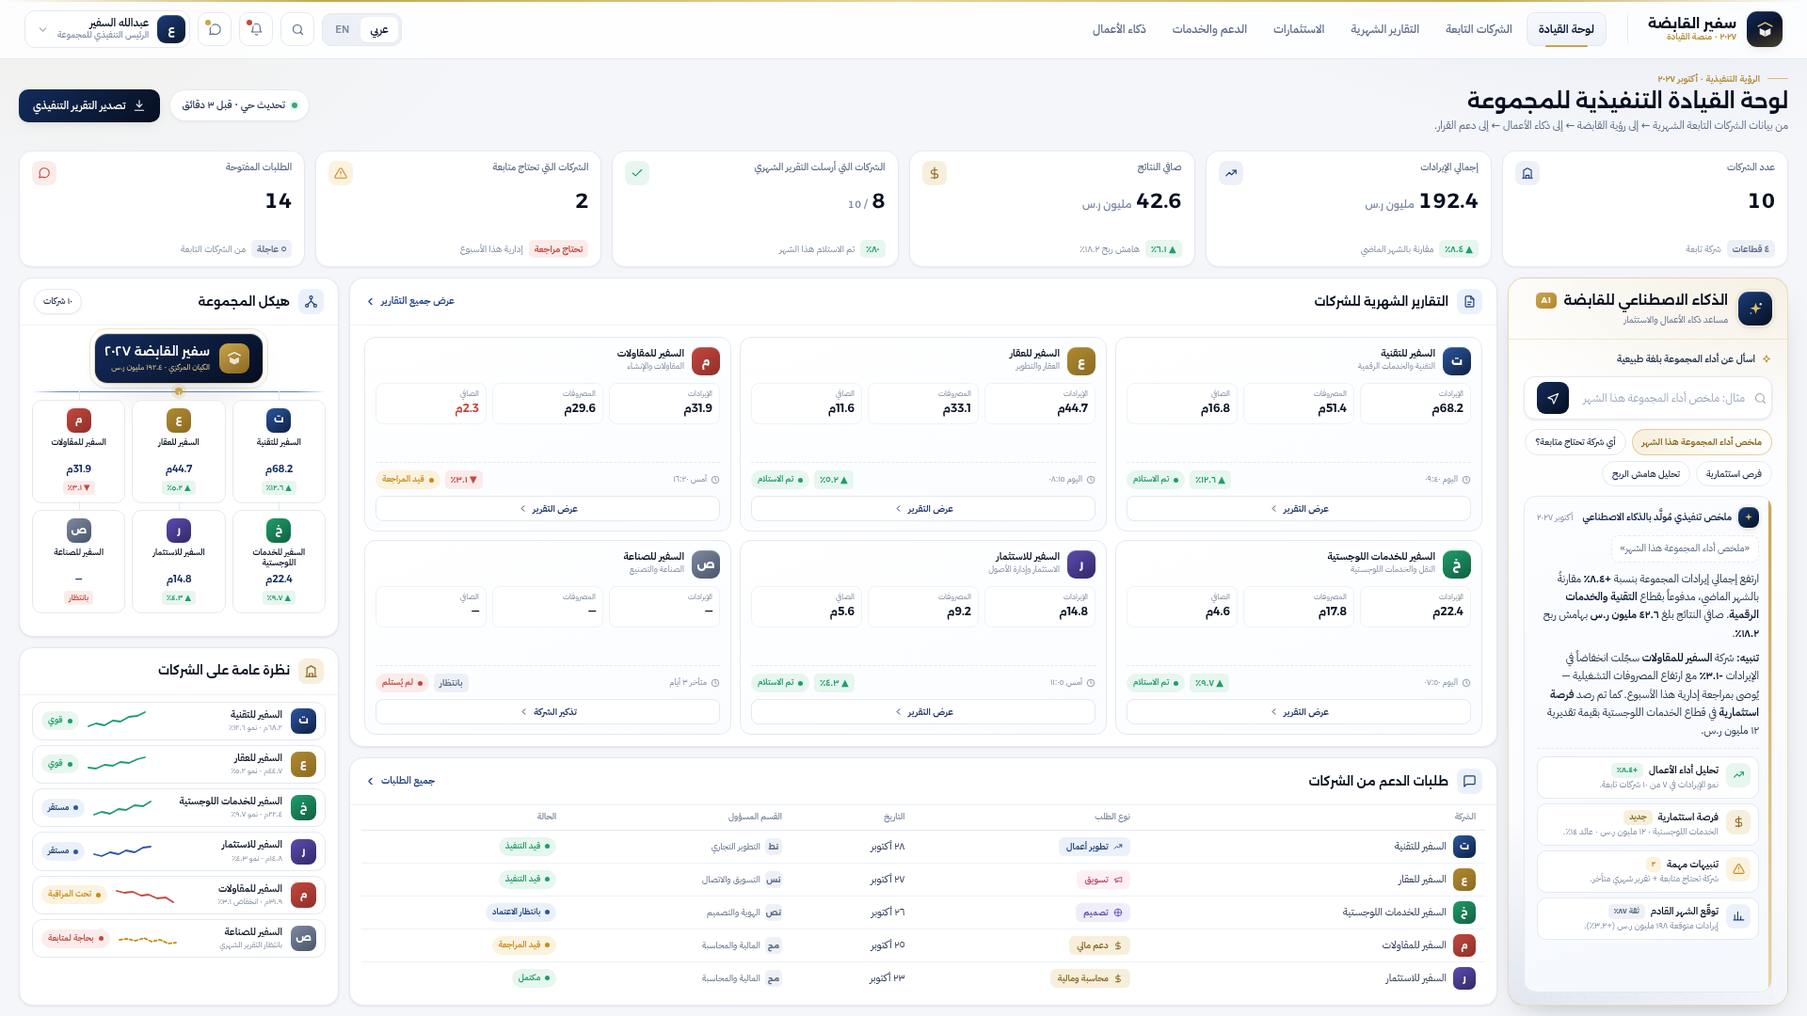
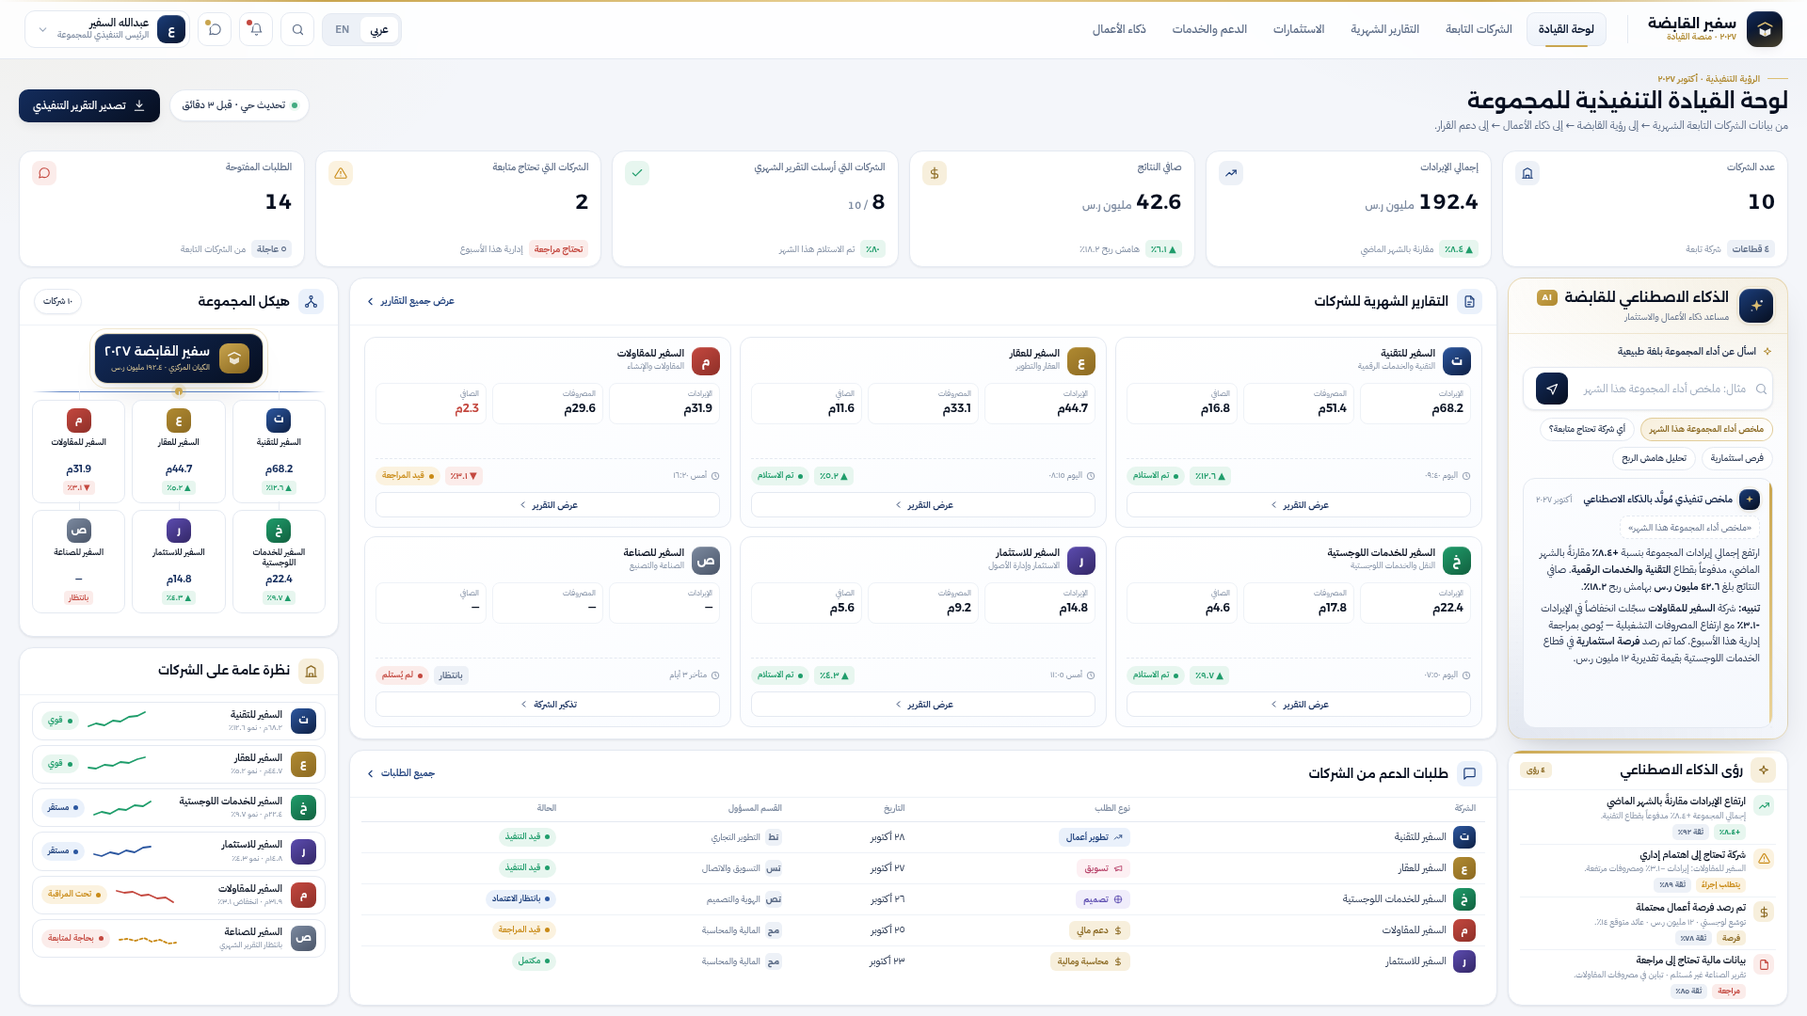
Give AI Insights its own labeled dashboard section
The four AI-generated observations (revenue up vs. last month, one company
needing attention, a detected business opportunity, financial data needing
review) previously sat unlabeled inside the Holding AI panel. They now form
a dedicated 'رؤى الذكاء الاصطناعي / AI Insights' section in the left column
beneath Holding AI, each with an icon, confidence level and status tag.

- Rebalance the board grid so Holding AI and AI Insights share the left column
- Trim the AI answer to summary text only, removing the duplicated rows
- Drop the now-unused .mini* styles and keep .ins-tag for insight metadata
- Refresh both presentation screenshots

Verified: no clipped text or out-of-bounds elements in Arabic or English at
1920x1080, and responsive scaling intact at 1440/1280/1024.

diff --git a/styles.css b/styles.css
@@ -173,12 +173,12 @@ html.lang-en .profile{padding:4px 12px 4px 4px;}
   padding:12px 20px 11px;
   display:grid;
   grid-template-columns:298px minmax(0,1fr) 340px;
-  grid-template-rows:74px 124px minmax(0,1fr) 264px;
+  grid-template-rows:74px 124px minmax(0,1fr) 272px;
   grid-template-areas:
     "head  head    head"
     "kpis  kpis    kpis"
     "ai    reports rel"
-    "ai    support rel";
+    "aii   support rel";
   gap:11px;
 }
 
@@ -243,7 +243,7 @@ h1.page-title{font-family:var(--f-display);font-size:22px;font-weight:600;color:
 .kpi.green .kpi-ic{background:var(--green-soft);color:var(--green);}
 .kpi.amber .kpi-ic{background:var(--amber-soft);color:var(--amber);}
 .kpi.red .kpi-ic{background:var(--red-soft);color:var(--red);}
-.kpi-val{font-family:var(--f-display);font-size:22px;font-weight:600;color:var(--navy-900);letter-spacing:-.025em;line-height:1.05;display:flex;align-items:baseline;gap:4px;}
+.kpi-val{font-family:var(--f-display);font-size:22px;font-weight:600;color:var(--navy-900);letter-spacing:-.025em;line-height:1.15;display:flex;align-items:baseline;gap:4px;overflow:visible;}
 .kpi-val .unit{font-size:10.5px;font-weight:500;color:var(--ink-400);letter-spacing:0;}
 .kpi-foot{display:flex;align-items:center;gap:6px;margin-top:auto;padding-top:5px;font-size:10px;color:var(--ink-400);white-space:nowrap;overflow:hidden;}
 .delta{display:inline-flex;align-items:center;gap:3px;font-weight:600;font-size:10px;padding:2px 6px;border-radius:5px;white-space:nowrap;}
@@ -270,7 +270,7 @@ h1.page-title{font-family:var(--f-display);font-size:22px;font-weight:600;color:
 }
 .ai-top{
   flex:0 0 auto;display:flex;align-items:center;gap:11px;
-  padding:13px 16px;border-bottom:1px solid rgba(201,165,78,.22);position:relative;
+  padding:10px 15px;border-bottom:1px solid rgba(201,165,78,.22);position:relative;
 }
 .ai-orb{
   width:36px;height:36px;border-radius:11px;flex:0 0 auto;position:relative;
@@ -282,7 +282,7 @@ h1.page-title{font-family:var(--f-display);font-size:22px;font-weight:600;color:
 .ai-id h2{font-family:var(--f-display);font-size:14px;font-weight:600;color:var(--navy-900);margin:0;display:flex;align-items:center;gap:7px;}
 .ai-id p{margin:1px 0 0;font-size:10px;color:var(--ink-500);}
 .badge-ai{font-size:8.5px;font-weight:700;letter-spacing:.1em;padding:2px 6px;border-radius:5px;background:linear-gradient(140deg,var(--gold-500),var(--gold-600));color:#fff;}
-.ai-body{position:relative;flex:1 1 auto;min-height:0;display:flex;flex-direction:column;padding:13px 16px;gap:10px;overflow:hidden;}
+.ai-body{position:relative;flex:1 1 auto;min-height:0;display:flex;flex-direction:column;padding:11px 15px;gap:8px;overflow:hidden;}
 .ask-label{font-size:10.5px;font-weight:600;color:var(--ink-700);display:flex;align-items:center;gap:6px;}
 .ask-box{
   display:flex;align-items:center;gap:9px;padding:4px 4px 4px 13px;border-radius:12px;
@@ -295,7 +295,7 @@ html.lang-en .ask-box{padding:4px 13px 4px 4px;}
 .ask-send{width:34px;height:34px;border-radius:9px;border:none;cursor:pointer;flex:0 0 auto;background:linear-gradient(140deg,var(--navy-600),var(--navy-900));color:#fff;display:grid;place-items:center;transition:.24s;}
 .ask-send:hover{transform:scale(1.05);}
 .suggest{display:flex;flex-wrap:wrap;gap:6px;}
-.sugg{font-size:10px;font-weight:500;color:var(--ink-700);padding:5px 10px;border-radius:999px;background:#fff;border:1px solid var(--line);cursor:pointer;transition:.22s;}
+.sugg{font-size:9.5px;font-weight:500;color:var(--ink-700);padding:4px 9px;border-radius:999px;background:#fff;border:1px solid var(--line);cursor:pointer;transition:.22s;}
 .sugg:hover{border-color:var(--gold-400);color:var(--gold-700);background:var(--gold-100);}
 .sugg.gold{border-color:rgba(201,165,78,.5);background:linear-gradient(140deg,var(--gold-100),#fff);color:var(--gold-700);font-weight:600;}
 
@@ -304,11 +304,11 @@ html.lang-en .ask-box{padding:4px 13px 4px 4px;}
   padding:11px 13px;position:relative;overflow:hidden;flex:1 1 auto;min-height:0;
 }
 .answer::before{content:"";position:absolute;inset-inline-start:0;top:0;bottom:0;width:3px;background:linear-gradient(180deg,var(--gold-500),var(--gold-300));}
-.answer-head{display:flex;align-items:center;gap:7px;margin-bottom:8px;}
+.answer-head{display:flex;align-items:center;gap:7px;margin-bottom:6px;}
 .answer-head .who{font-size:10.5px;font-weight:600;color:var(--navy-700);}
 .answer-head .time{font-size:9.5px;color:var(--ink-400);margin-inline-start:auto;}
-.answer-q{font-size:10.5px;color:var(--ink-500);padding:5px 9px;border-radius:8px;background:#fff;border:1px dashed var(--line);margin-bottom:8px;display:inline-block;}
-.answer p{margin:0 0 7px;font-size:11.5px;color:var(--ink-700);line-height:1.68;}
+.answer-q{font-size:10px;color:var(--ink-500);padding:4px 8px;border-radius:8px;background:#fff;border:1px dashed var(--line);margin-bottom:6px;display:inline-block;}
+.answer p{margin:0 0 6px;font-size:11px;color:var(--ink-700);line-height:1.6;}
 .answer p:last-child{margin-bottom:0;}
 .answer b{color:var(--navy-800);font-weight:600;}
 .hl-g{color:var(--green);font-weight:600;}
@@ -355,11 +355,11 @@ html.lang-en .ask-box{padding:4px 13px 4px 4px;}
    SUPPORT REQUESTS (centre bottom)
    ============================================================ */
 .support{grid-area:support;}
-.support .card-body{padding:6px 12px 4px;overflow:hidden;}
+.support .card-body{padding:5px 12px 4px;overflow:hidden;}
 .table{width:100%;border-collapse:separate;border-spacing:0;}
 .table th{font-size:9px;font-weight:600;color:var(--ink-400);text-align:start;padding:0 10px 6px;text-transform:uppercase;letter-spacing:.05em;border-bottom:1px solid var(--line);}
 html.lang-ar .table th{letter-spacing:0;}
-.table td{padding:5px 10px;border-bottom:1px solid var(--line-2);font-size:11px;color:var(--ink-700);vertical-align:middle;}
+.table td{padding:4px 10px;border-bottom:1px solid var(--line-2);font-size:11px;color:var(--ink-700);vertical-align:middle;}
 .table tbody tr:last-child td{border-bottom:none;}
 .table tbody tr{transition:.2s;}
 .table tbody tr:hover{background:linear-gradient(90deg,rgba(244,246,250,.9),transparent);}
@@ -440,19 +440,33 @@ body.export{background:#F4F6FA;}
 body.export .stage-wrap{padding:0;display:block;min-height:0;background:none;}
 body.export .stage{border-radius:0;box-shadow:none;}
 
-/* ---------- AI mini insight rows (inside answer panel) ---------- */
-.ai-mini{display:grid;grid-template-columns:1fr;gap:5px;margin-top:8px;padding-top:8px;border-top:1px dashed var(--line);}
-.mini{display:flex;gap:8px;padding:6px 8px;border-radius:10px;background:#fff;border:1px solid var(--line);transition:.22s;}
-.mini:hover{transform:translateY(-1px);box-shadow:var(--shadow-sm);border-color:#D8E0EC;}
-.mini-ic{width:26px;height:26px;border-radius:8px;display:grid;place-items:center;flex:0 0 auto;}
-.mini-ic.g{background:var(--green-soft);color:var(--green);}
-.mini-ic.a{background:var(--amber-soft);color:var(--amber);}
-.mini-ic.b{background:var(--blue-soft);color:var(--navy-500);}
-.mini-ic.gold{background:var(--gold-100);color:var(--gold-700);}
-.mini > div:last-child{min-width:0;flex:1;}
-.mini-k{font-size:10.5px;font-weight:600;color:var(--ink-900);display:flex;align-items:center;gap:6px;}
-.mini-v{font-size:9.5px;color:var(--ink-400);margin-top:1px;line-height:1.45;}
+/* ============================================================
+   AI INSIGHTS  (bottom-left column)
+   ============================================================ */
+.aii{grid-area:aii;border-radius:15px;border:1px solid var(--line);background:var(--paper);
+  box-shadow:var(--shadow-sm);display:flex;flex-direction:column;min-height:0;overflow:hidden;position:relative;}
+.aii::before{content:"";position:absolute;inset:0 0 auto 0;height:2.5px;
+  background:linear-gradient(90deg,var(--gold-500),var(--gold-300) 55%,transparent);}
+.aii-head{flex:0 0 auto;display:flex;align-items:center;gap:8px;padding:7px 12px;border-bottom:1px solid var(--line-2);}
+.aii-head h2{font-family:var(--f-display);font-size:12.5px;font-weight:600;color:var(--navy-900);margin:0;}
+.aii-head .cnt{margin-inline-start:auto;font-size:8.5px;font-weight:700;color:var(--gold-700);
+  background:var(--gold-100);padding:2px 7px;border-radius:5px;white-space:nowrap;}
+.aii-list{flex:1 1 auto;min-height:0;display:flex;flex-direction:column;justify-content:center;padding:2px 12px 3px;overflow:hidden;}
+.aii-row{display:flex;gap:8px;padding:4px 2px;border-bottom:1px solid var(--line-2);}
+.aii-row:last-child{border-bottom:none;}
+.aii-ic{width:22px;height:22px;border-radius:7px;display:grid;place-items:center;flex:0 0 auto;}
+.aii-ic.g{background:var(--green-soft);color:var(--green);}
+.aii-ic.a{background:var(--amber-soft);color:var(--amber);}
+.aii-ic.b{background:var(--blue-soft);color:var(--navy-500);}
+.aii-ic.gold{background:var(--gold-100);color:var(--gold-700);}
+.aii-ic.r{background:var(--red-soft);color:var(--red);}
+.aii-txt{min-width:0;flex:1;}
+.aii-t{font-size:10.5px;font-weight:600;color:var(--ink-900);line-height:1.4;}
+.aii-d{font-size:9px;color:var(--ink-400);margin-top:1px;line-height:1.4;}
+.aii-meta{display:flex;align-items:center;gap:5px;margin-top:3px;}
+
 .ins-tag{font-size:8.5px;font-weight:700;padding:1.5px 6px;border-radius:5px;background:var(--bg-2);color:var(--ink-500);white-space:nowrap;}
 .ins-tag.up{background:var(--green-soft);color:var(--green);}
 .ins-tag.warn{background:var(--amber-soft);color:var(--amber);}
+.ins-tag.risk{background:var(--red-soft);color:var(--red);}
 .ins-tag.gold{background:var(--gold-100);color:var(--gold-700);}

diff --git a/index.html b/index.html
@@ -178,29 +178,55 @@
         <p><span class="ar">ارتفع إجمالي إيرادات المجموعة بنسبة <b class="hl-g">+٨.٤٪</b> مقارنةً بالشهر الماضي، مدفوعاً بقطاع <b>التقنية والخدمات الرقمية</b>. صافي النتائج بلغ <b class="hl-gold">٤٢.٦ مليون ر.س</b> بهامش ربح <b>١٨.٢٪</b>.</span><span class="en">Revenue grew <b class="hl-g">+8.4%</b> MoM, led by <b>Technology &amp; Digital</b>. Net result <b class="hl-gold">SAR 42.6M</b> at an <b>18.2%</b> margin.</span></p>
         <p><span class="ar"><b class="hl-r">تنبيه:</b> شركة <b>السفير للمقاولات</b> سجّلت انخفاضاً في الإيرادات <b class="hl-r">-٣.١٪</b> مع ارتفاع المصروفات التشغيلية — يُوصى بمراجعة إدارية هذا الأسبوع. كما تم رصد <b class="hl-gold">فرصة استثمارية</b> في قطاع الخدمات اللوجستية بقيمة تقديرية ١٢ مليون ر.س.</span><span class="en"><b class="hl-r">Alert:</b> <b>Al-Safir Contracting</b> revenue <b class="hl-r">-3.1%</b> with rising expenses — a management review is recommended. A <b class="hl-gold">logistics opportunity</b> of SAR 12M was detected.</span></p>
 
-        <div class="ai-mini">
-          <div class="mini">
-            <div class="mini-ic g"><svg width="13" height="13" viewBox="0 0 24 24" fill="none" stroke="currentColor" stroke-width="2" stroke-linecap="round" stroke-linejoin="round"><path d="M3 17l6-6 4 4 8-8"/><path d="M15 7h6v6"/></svg></div>
-            <div><div class="mini-k"><span class="ar">تحليل أداء الأعمال</span><span class="en">Business performance</span><span class="ins-tag up">+٨.٤٪</span></div>
-              <div class="mini-v"><span class="ar">نمو الإيرادات في ٧ من ١٠ شركات تابعة.</span><span class="en">Revenue growth in 7 of 10 subsidiaries.</span></div></div>
-          </div>
-          <div class="mini">
-            <div class="mini-ic gold"><svg width="13" height="13" viewBox="0 0 24 24" fill="none" stroke="currentColor" stroke-width="2" stroke-linecap="round" stroke-linejoin="round"><path d="M12 2v20"/><path d="M17 6.5H9.5a3.5 3.5 0 0 0 0 7h5a3.5 3.5 0 0 1 0 7H6"/></svg></div>
-            <div><div class="mini-k"><span class="ar">فرصة استثمارية</span><span class="en">Investment opportunity</span><span class="ins-tag gold"><span class="ar">جديد</span><span class="en">New</span></span></div>
-              <div class="mini-v"><span class="ar">الخدمات اللوجستية · ١٢ مليون ر.س · عائد ١٤٪.</span><span class="en">Logistics · SAR 12M · 14% return.</span></div></div>
-          </div>
-          <div class="mini">
-            <div class="mini-ic a"><svg width="13" height="13" viewBox="0 0 24 24" fill="none" stroke="currentColor" stroke-width="2" stroke-linecap="round" stroke-linejoin="round"><path d="M12 9v4"/><path d="M12 17h.01"/><path d="M10.3 3.9 1.8 18a2 2 0 0 0 1.7 3h17a2 2 0 0 0 1.7-3L13.7 3.9a2 2 0 0 0-3.4 0Z"/></svg></div>
-            <div><div class="mini-k"><span class="ar">تنبيهات مهمة</span><span class="en">Important alerts</span><span class="ins-tag warn">٢</span></div>
-              <div class="mini-v"><span class="ar">شركة تحتاج متابعة + تقرير شهري متأخر.</span><span class="en">One company to review + one late report.</span></div></div>
-          </div>
-          <div class="mini">
-            <div class="mini-ic b"><svg width="13" height="13" viewBox="0 0 24 24" fill="none" stroke="currentColor" stroke-width="2" stroke-linecap="round" stroke-linejoin="round"><path d="M4 20V10M10 20V4M16 20v-7M22 20H2"/></svg></div>
-            <div><div class="mini-k"><span class="ar">توقّع الشهر القادم</span><span class="en">Next-month projection</span><span class="ins-tag"><span class="ar">ثقة ٨٧٪</span><span class="en">87% conf.</span></span></div>
-              <div class="mini-v"><span class="ar">إيرادات متوقعة ١٩٨ مليون ر.س (+٣.٢٪).</span><span class="en">SAR 198M projected (+3.2%).</span></div></div>
-          </div>
+      </div>
+    </div>
+  </section>
+
+  <!-- ============== AI INSIGHTS (bottom-left) ============== -->
+  <section class="aii anim" style="animation-delay:.30s">
+    <div class="aii-head">
+      <div class="t-ico gold"><svg width="14" height="14" viewBox="0 0 24 24" fill="none" stroke="currentColor" stroke-width="1.9" stroke-linecap="round" stroke-linejoin="round"><path d="M12 3.4 13.9 9l5.6 1.9-5.6 1.9L12 18.4l-1.9-5.6L4.5 10.9 10.1 9 12 3.4Z"/></svg></div>
+      <h2><span class="ar">رؤى الذكاء الاصطناعي</span><span class="en">AI Insights</span></h2>
+      <span class="cnt"><span class="ar">٤ رؤى</span><span class="en">4 insights</span></span>
+    </div>
+    <div class="aii-list">
+
+      <div class="aii-row">
+        <div class="aii-ic g"><svg width="13" height="13" viewBox="0 0 24 24" fill="none" stroke="currentColor" stroke-width="2" stroke-linecap="round" stroke-linejoin="round"><path d="M3 17l6-6 4 4 8-8"/><path d="M15 7h6v6"/></svg></div>
+        <div class="aii-txt">
+          <div class="aii-t"><span class="ar">ارتفاع الإيرادات مقارنةً بالشهر الماضي</span><span class="en">Revenue increased vs. last month</span></div>
+          <div class="aii-d"><span class="ar">إجمالي المجموعة +٨.٤٪ مدفوعاً بقطاع التقنية.</span><span class="en">Group total +8.4%, led by Technology.</span></div>
+          <div class="aii-meta"><span class="ins-tag up">+٨.٤٪</span><span class="ins-tag"><span class="ar">ثقة ٩٢٪</span><span class="en">92% conf.</span></span></div>
         </div>
       </div>
+
+      <div class="aii-row">
+        <div class="aii-ic a"><svg width="13" height="13" viewBox="0 0 24 24" fill="none" stroke="currentColor" stroke-width="2" stroke-linecap="round" stroke-linejoin="round"><path d="M12 9v4"/><path d="M12 17h.01"/><path d="M10.3 3.9 1.8 18a2 2 0 0 0 1.7 3h17a2 2 0 0 0 1.7-3L13.7 3.9a2 2 0 0 0-3.4 0Z"/></svg></div>
+        <div class="aii-txt">
+          <div class="aii-t"><span class="ar">شركة تحتاج إلى اهتمام إداري</span><span class="en">One company needs management attention</span></div>
+          <div class="aii-d"><span class="ar">السفير للمقاولات: إيرادات −٣.١٪ ومصروفات مرتفعة.</span><span class="en">Al-Safir Contracting: −3.1% revenue, rising expenses.</span></div>
+          <div class="aii-meta"><span class="ins-tag warn"><span class="ar">يتطلب إجراءً</span><span class="en">Action needed</span></span><span class="ins-tag"><span class="ar">ثقة ٨٩٪</span><span class="en">89% conf.</span></span></div>
+        </div>
+      </div>
+
+      <div class="aii-row">
+        <div class="aii-ic gold"><svg width="13" height="13" viewBox="0 0 24 24" fill="none" stroke="currentColor" stroke-width="2" stroke-linecap="round" stroke-linejoin="round"><path d="M12 2v20"/><path d="M17 6.5H9.5a3.5 3.5 0 0 0 0 7h5a3.5 3.5 0 0 1 0 7H6"/></svg></div>
+        <div class="aii-txt">
+          <div class="aii-t"><span class="ar">تم رصد فرصة أعمال محتملة</span><span class="en">A potential business opportunity was detected</span></div>
+          <div class="aii-d"><span class="ar">توسّع لوجستي · ١٢ مليون ر.س · عائد متوقع ١٤٪.</span><span class="en">Logistics expansion · SAR 12M · 14% projected return.</span></div>
+          <div class="aii-meta"><span class="ins-tag gold"><span class="ar">فرصة</span><span class="en">Opportunity</span></span><span class="ins-tag"><span class="ar">ثقة ٧٨٪</span><span class="en">78% conf.</span></span></div>
+        </div>
+      </div>
+
+      <div class="aii-row">
+        <div class="aii-ic r"><svg width="13" height="13" viewBox="0 0 24 24" fill="none" stroke="currentColor" stroke-width="2" stroke-linecap="round" stroke-linejoin="round"><path d="M14 3H7a2 2 0 0 0-2 2v14a2 2 0 0 0 2 2h10a2 2 0 0 0 2-2V8l-5-5Z"/><path d="M14 3v5h5"/></svg></div>
+        <div class="aii-txt">
+          <div class="aii-t"><span class="ar">بيانات مالية تحتاج إلى مراجعة</span><span class="en">Financial data needs review</span></div>
+          <div class="aii-d"><span class="ar">تقرير الصناعة غير مُستلم · تباين في مصروفات المقاولات.</span><span class="en">Industrial report missing; Contracting expense variance.</span></div>
+          <div class="aii-meta"><span class="ins-tag risk"><span class="ar">مراجعة</span><span class="en">Review</span></span><span class="ins-tag"><span class="ar">ثقة ٨٥٪</span><span class="en">85% conf.</span></span></div>
+        </div>
+      </div>
+
     </div>
   </section>
 

diff --git a/README.md b/README.md
@@ -40,8 +40,9 @@ Typography pairs **Alexandria** (display, headings, numerals) with **IBM Plex Sa
 │  · AI answer        │  · "View Report"                              ├───────────────────────────────────────┤
 │  · business analysis│                                              │  Companies Overview                   │
 │  · investment opp.  ├──────────────────────────────────────────────┤  · health pills                       │
-│  · important alerts │  Support Requests                            │  · mini sparklines                    │
-│  · projection       │  company · type · date · dept · status        │  · revenue + growth                   │
+├─────────────────────┤  Support Requests                            │  · mini sparklines                    │
+│  AI Insights        │  company · type · date · dept · status        │  · revenue + growth                   │
+│  · 4 observations   │                                              │                                       │
 └─────────────────────┴──────────────────────────────────────────────┴───────────────────────────────────────┘
 ```
 
@@ -58,6 +59,9 @@ Typography pairs **Alexandria** (display, headings, numerals) with **IBM Plex Sa
 - **Companies Overview** — health/status indicators with small trend charts.
 - **Support Requests** — business development, marketing, design and accounting/financial
   support requests with company, type, date, responsible department and status.
+- **AI Insights** — its own labeled section listing four concise observations with confidence
+  levels: revenue up vs. last month, one company needing management attention, a detected
+  business opportunity, and financial data needing review.
 - **Group Structure** — the Holding rendered as the central entity with subsidiary cards
   connected beneath it.
 
